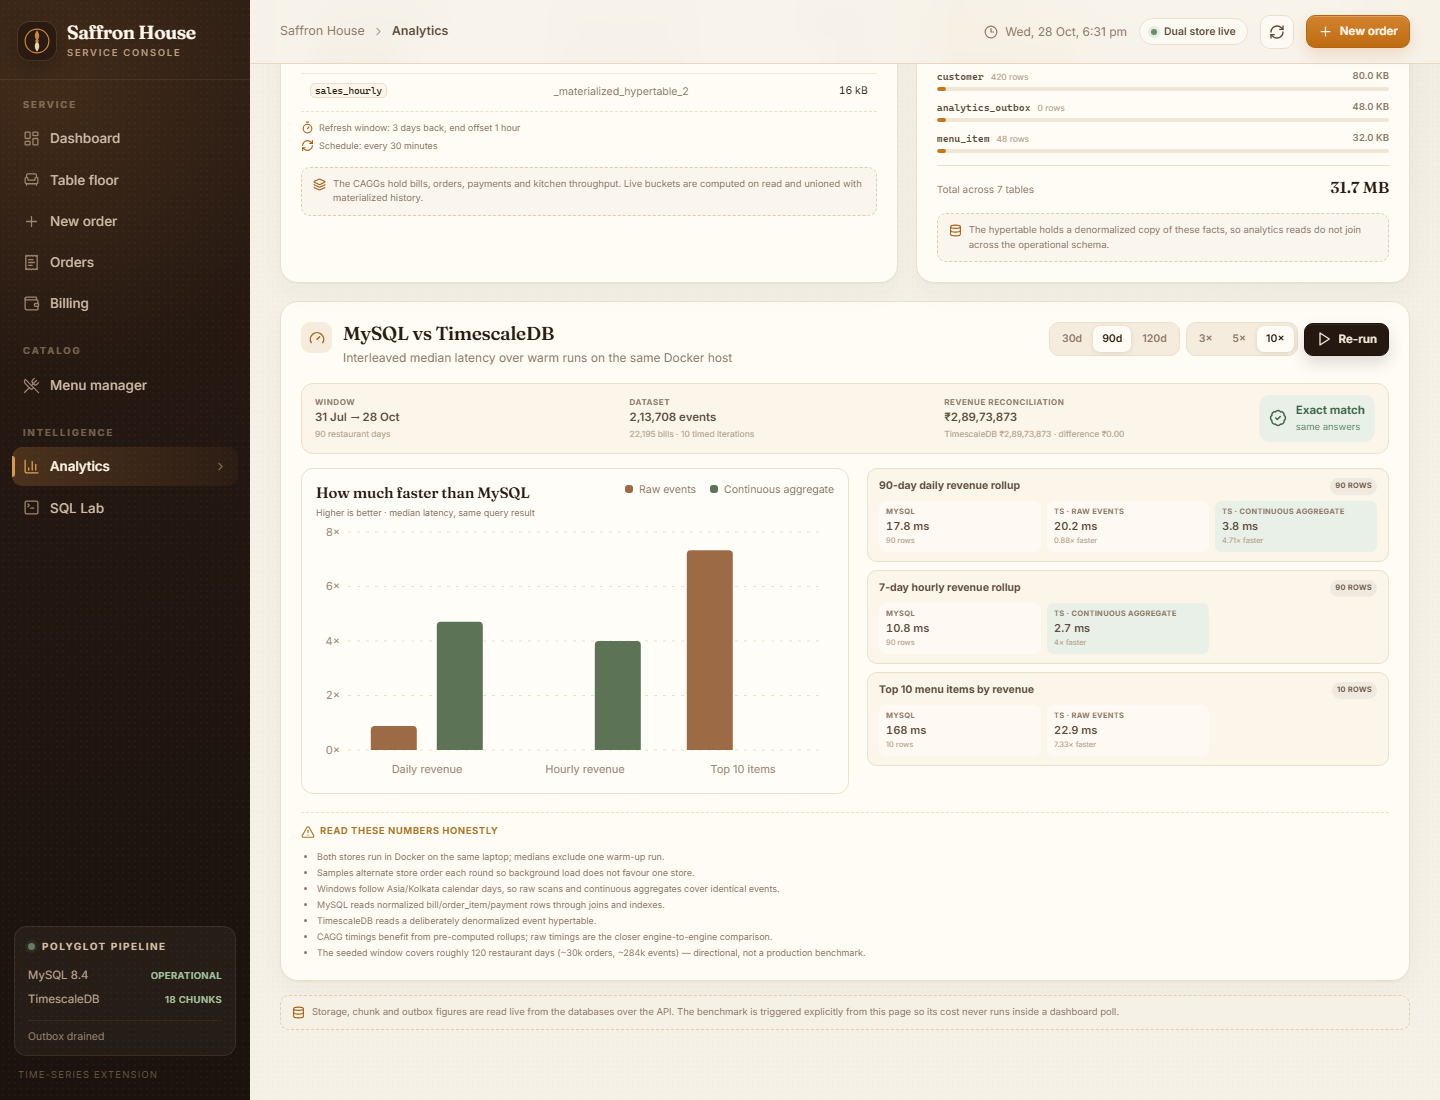
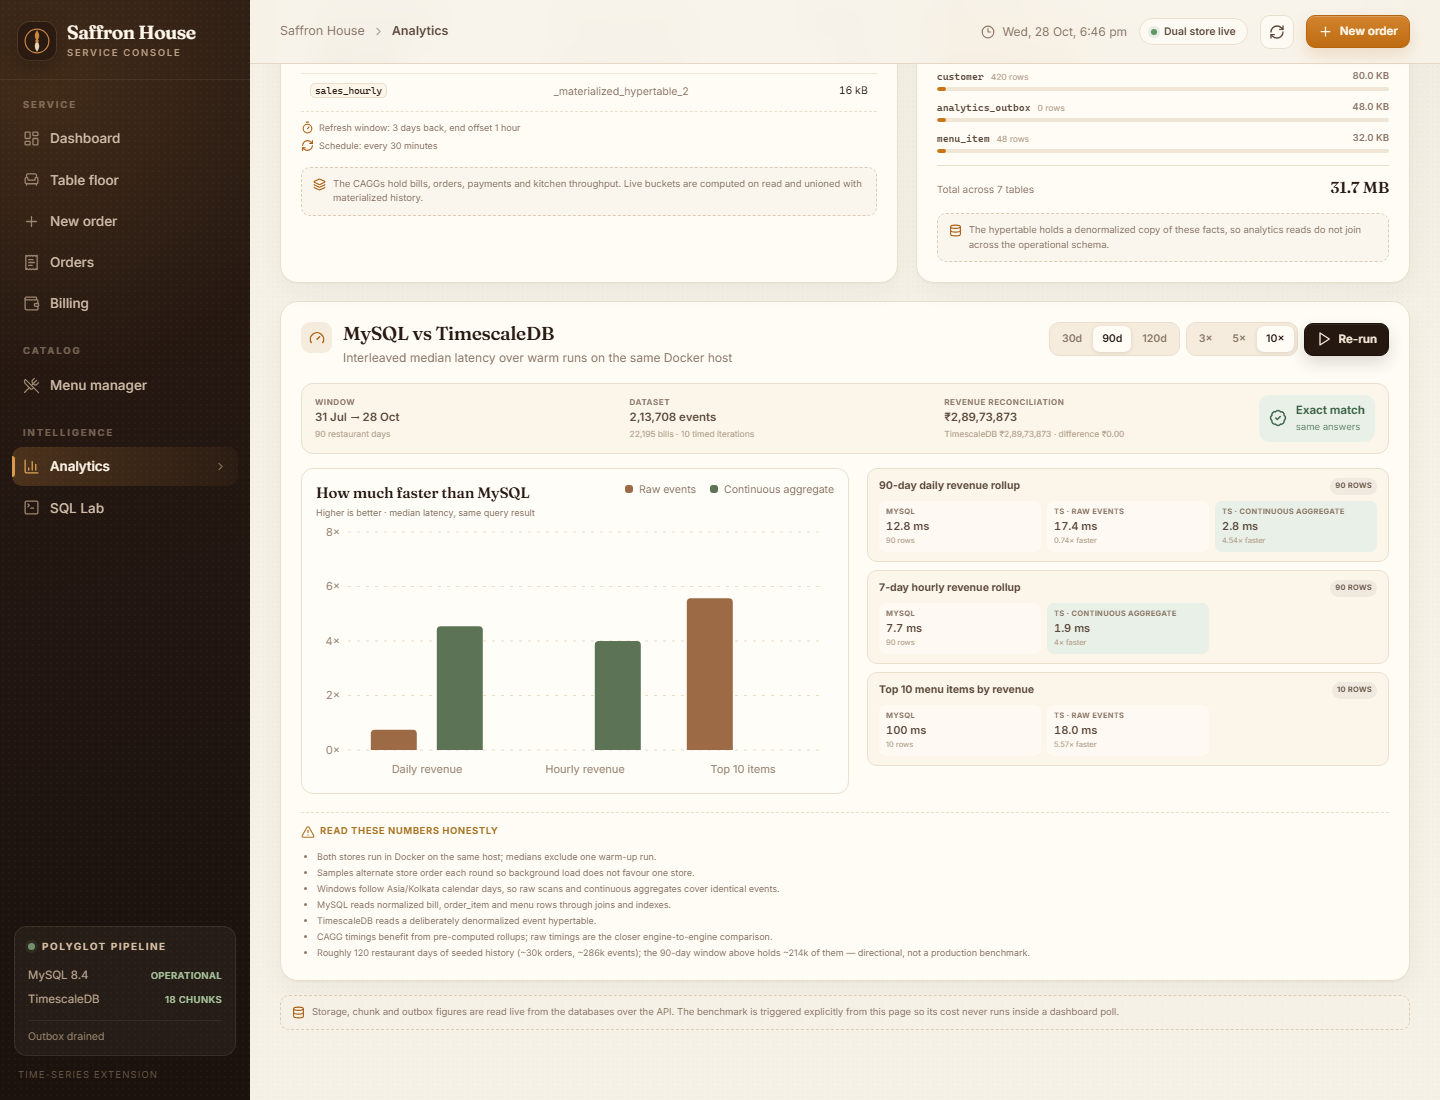
Correct the benchmark caveats shown beside the chart
The panel claimed the stores run on "the same laptop" while its own subtitle
said host, credited MySQL with reading payments the benchmark never queries,
and quoted 284k seeded events against a 90-day window that holds 214k.
Restate the method accurately and refresh the panel capture.

diff --git a/backend/restaurant/benchmark.py b/backend/restaurant/benchmark.py
@@ -224,12 +224,12 @@ def run_benchmark(days=90, iterations=5):
         "iterations": iterations,
         "results": results,
         "notes": [
-            "Both stores run in Docker on the same laptop; medians exclude one warm-up run.",
+            "Both stores run in Docker on the same host; medians exclude one warm-up run.",
             "Samples alternate store order each round so background load does not favour one store.",
             "Windows follow Asia/Kolkata calendar days, so raw scans and continuous aggregates cover identical events.",
-            "MySQL reads normalized bill/order_item/payment rows through joins and indexes.",
+            "MySQL reads normalized bill, order_item and menu rows through joins and indexes.",
             "TimescaleDB reads a deliberately denormalized event hypertable.",
             "CAGG timings benefit from pre-computed rollups; raw timings are the closer engine-to-engine comparison.",
-            "The seeded window covers roughly 120 restaurant days (~30k orders, ~284k events) — directional, not a production benchmark.",
+            "Roughly 120 restaurant days of seeded history (~30k orders, ~286k events); the 90-day window above holds ~214k of them — directional, not a production benchmark.",
         ],
     }
